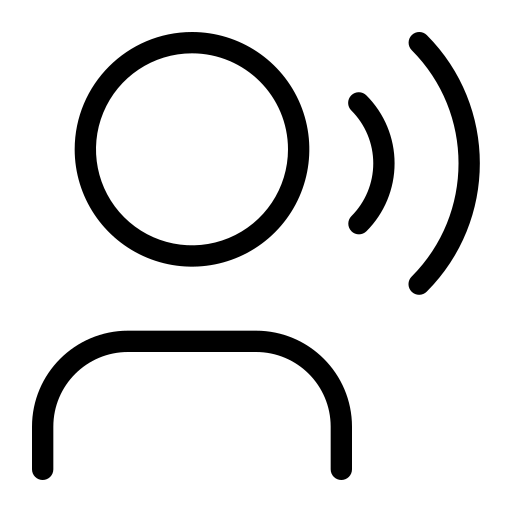
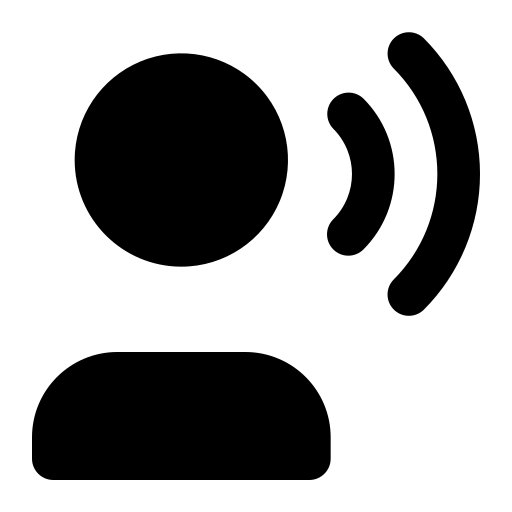
add icones

diff --git a/index.html b/index.html
@@ -29,10 +29,10 @@
           <label class="labelText">Reconhecimento de voz</label>
           <textarea id="textareaFrom" rows="8" placeholder="Aperte no botão para gravar sua voz ou digite um texto"></textarea>
           <div class="botoes">
-            <button id="btnGravar"><i class="fas fa-microphone"></i></button>
-            <button id="btnParar" disabled><i class="fas fa-microphone-slash"></i></button>
-            <button id="btnBaixar"><i class="fas fa-download"></i></button>
-            <button id="btnLimpar"><i class="fas fa-trash-alt"></i></button>
+            <button id="btnGravar"><img src="img/microfone-liga.png"</button>
+            <button id="btnParar" disabled><img src="img/microfone-deliga.png"</button>
+            <button id="btnBaixar"><img src="img/donwload.png"</button>
+            <button id="btnLimpar"><img src="img/lixo.png"</button>
           </div>
         </div>
   

diff --git a/style.css b/style.css
@@ -24,12 +24,6 @@ body {
   color: #0A3871;
 }
 
-#logo {
-  font-size: 1.8rem;
-  font-weight: 600;
-  color: #0A3871;
-}
-
 .containerMain {
   display: flex;
   justify-content: center;
@@ -87,6 +81,10 @@ body {
 .botoes {
   align-items: center;
   margin-top: 10px;
+}
+
+.botoes img {
+  width: 15px;
 }
 
 button {
